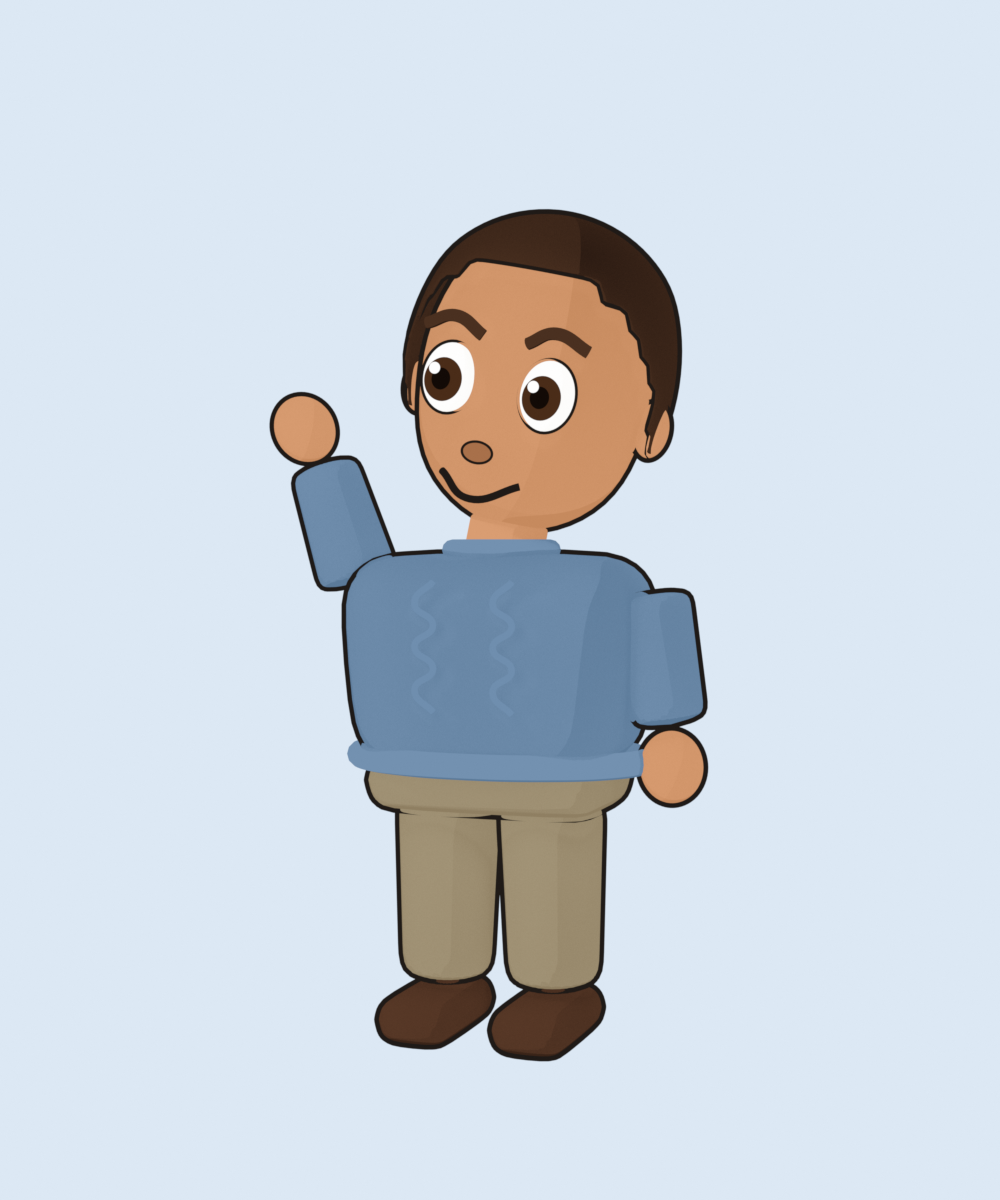
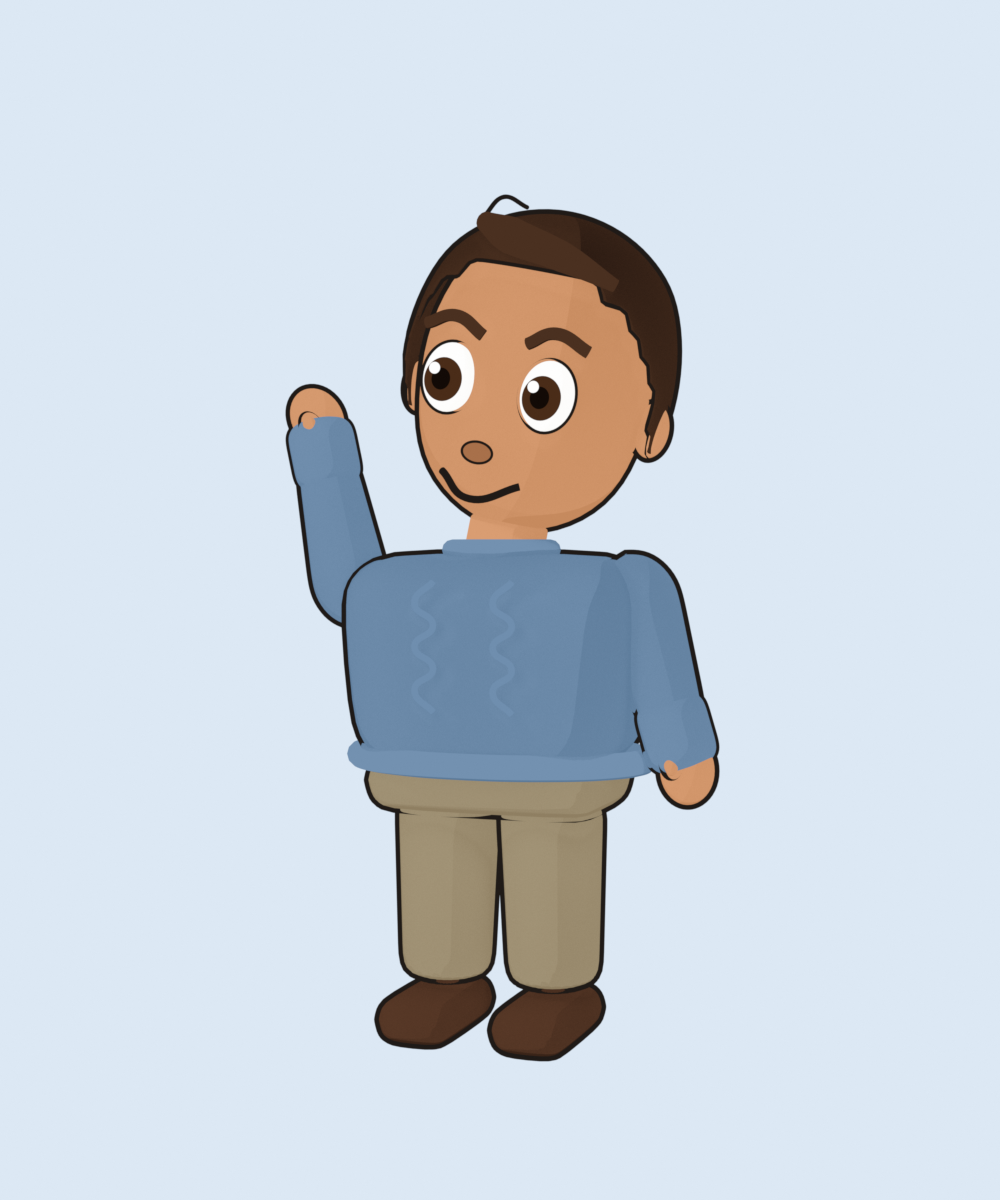
Cartoon Ace: polished 3D model and four-view turnaround on the 2D sheet

diff --git a/characters/2d/ace_cartoon.html b/characters/2d/ace_cartoon.html
@@ -41,6 +41,8 @@ h2 { font-family: var(--display); font-weight: 500; font-size: 1.15rem; margin: 
 .notes p { margin: 6px 0 0; color: var(--muted); font-size: .92rem; }
 .heights svg { width: 100%; height: auto; display: block; }
 .short * { vector-effect: non-scaling-stroke; }
+.turn { overflow-x: auto; margin-top: 10px; border-radius: 10px; }
+.turn img { display: block; width: 100%; min-width: 560px; height: auto; }
 @media (prefers-reduced-motion: no-preference) { .blink { animation: blink 4.5s infinite; transform-origin: center; transform-box: fill-box; } }
 @keyframes blink { 0%, 94%, 100% { transform: scaleY(1); } 96% { transform: scaleY(.1); } }
 </style>
@@ -72,6 +74,12 @@ h2 { font-family: var(--display); font-weight: 500; font-size: 1.15rem; margin: 
       </section>
     </div>
   </div>
+
+  <section class="panel" aria-label="Turnaround">
+    <h2>Turnaround</h2>
+    <div class="label">Front · three-quarter · side · back, rendered flat from the 3D cartoon model</div>
+    <div class="turn"><img src="ace_cartoon_turnaround.png" alt="Cartoon Ace from the front, three-quarter, side and back" width="2500" height="940"></div>
+  </section>
 
   <section class="notes">
     <div class="panel"><div class="label">Line</div><p>One outline weight (3 px at sheet scale), round joins, darker than any fill. No inner lines on the face except brows, nose tip and mouth, so lip-sync swaps stay clean.</p></div>

diff --git a/blender/characters/README.md b/blender/characters/README.md
@@ -116,4 +116,4 @@ ls._mpfb_data = r + r"\data"; ls._mpfb_root = r
 ### Cartoon Ace, short version (`ace_cartoon_v001.blend`) — the chosen cartoon style
 
 Short and chunky, about 2½ heads tall (1.04 m), built in Blender straight from the 2D sheet's measurements (1 sheet unit = 2.5 mm). Simple rounded shapes: big head with large eyes (white, iris, pupil, highlight), curve brows and smile, hair cap with a front hairline, sweater with collar, hem and cable lines, mitt hands, short legs, rounded shoes. Flat 3-tone cel materials (`AC_*`) and an inverted-hull outline (`AC_outline`).
-Rig `AC.rig`: root, hips, chest, head, arm/hand and leg/foot per side; every part is bone-parented (rigid), so posing is quick. Known rough spots: the arms read as blocks, and the hand can separate slightly from the sleeve in big arm poses.
+Rig `AC.rig`: root, hips, chest, head, arm/hand and leg/foot per side; every part is bone-parented (rigid), so posing is quick. Polished: rounded tapered sleeves with cuffs; mitt hands with a thumb on the same bone as the sleeve, so they never separate; a fringe showing his side part; face features, brows and sweater cables snapped onto the real surfaces; full hair at the back. Turnaround (front, three-quarter, side, back): `characters/2d/ace_cartoon_turnaround.png`.
